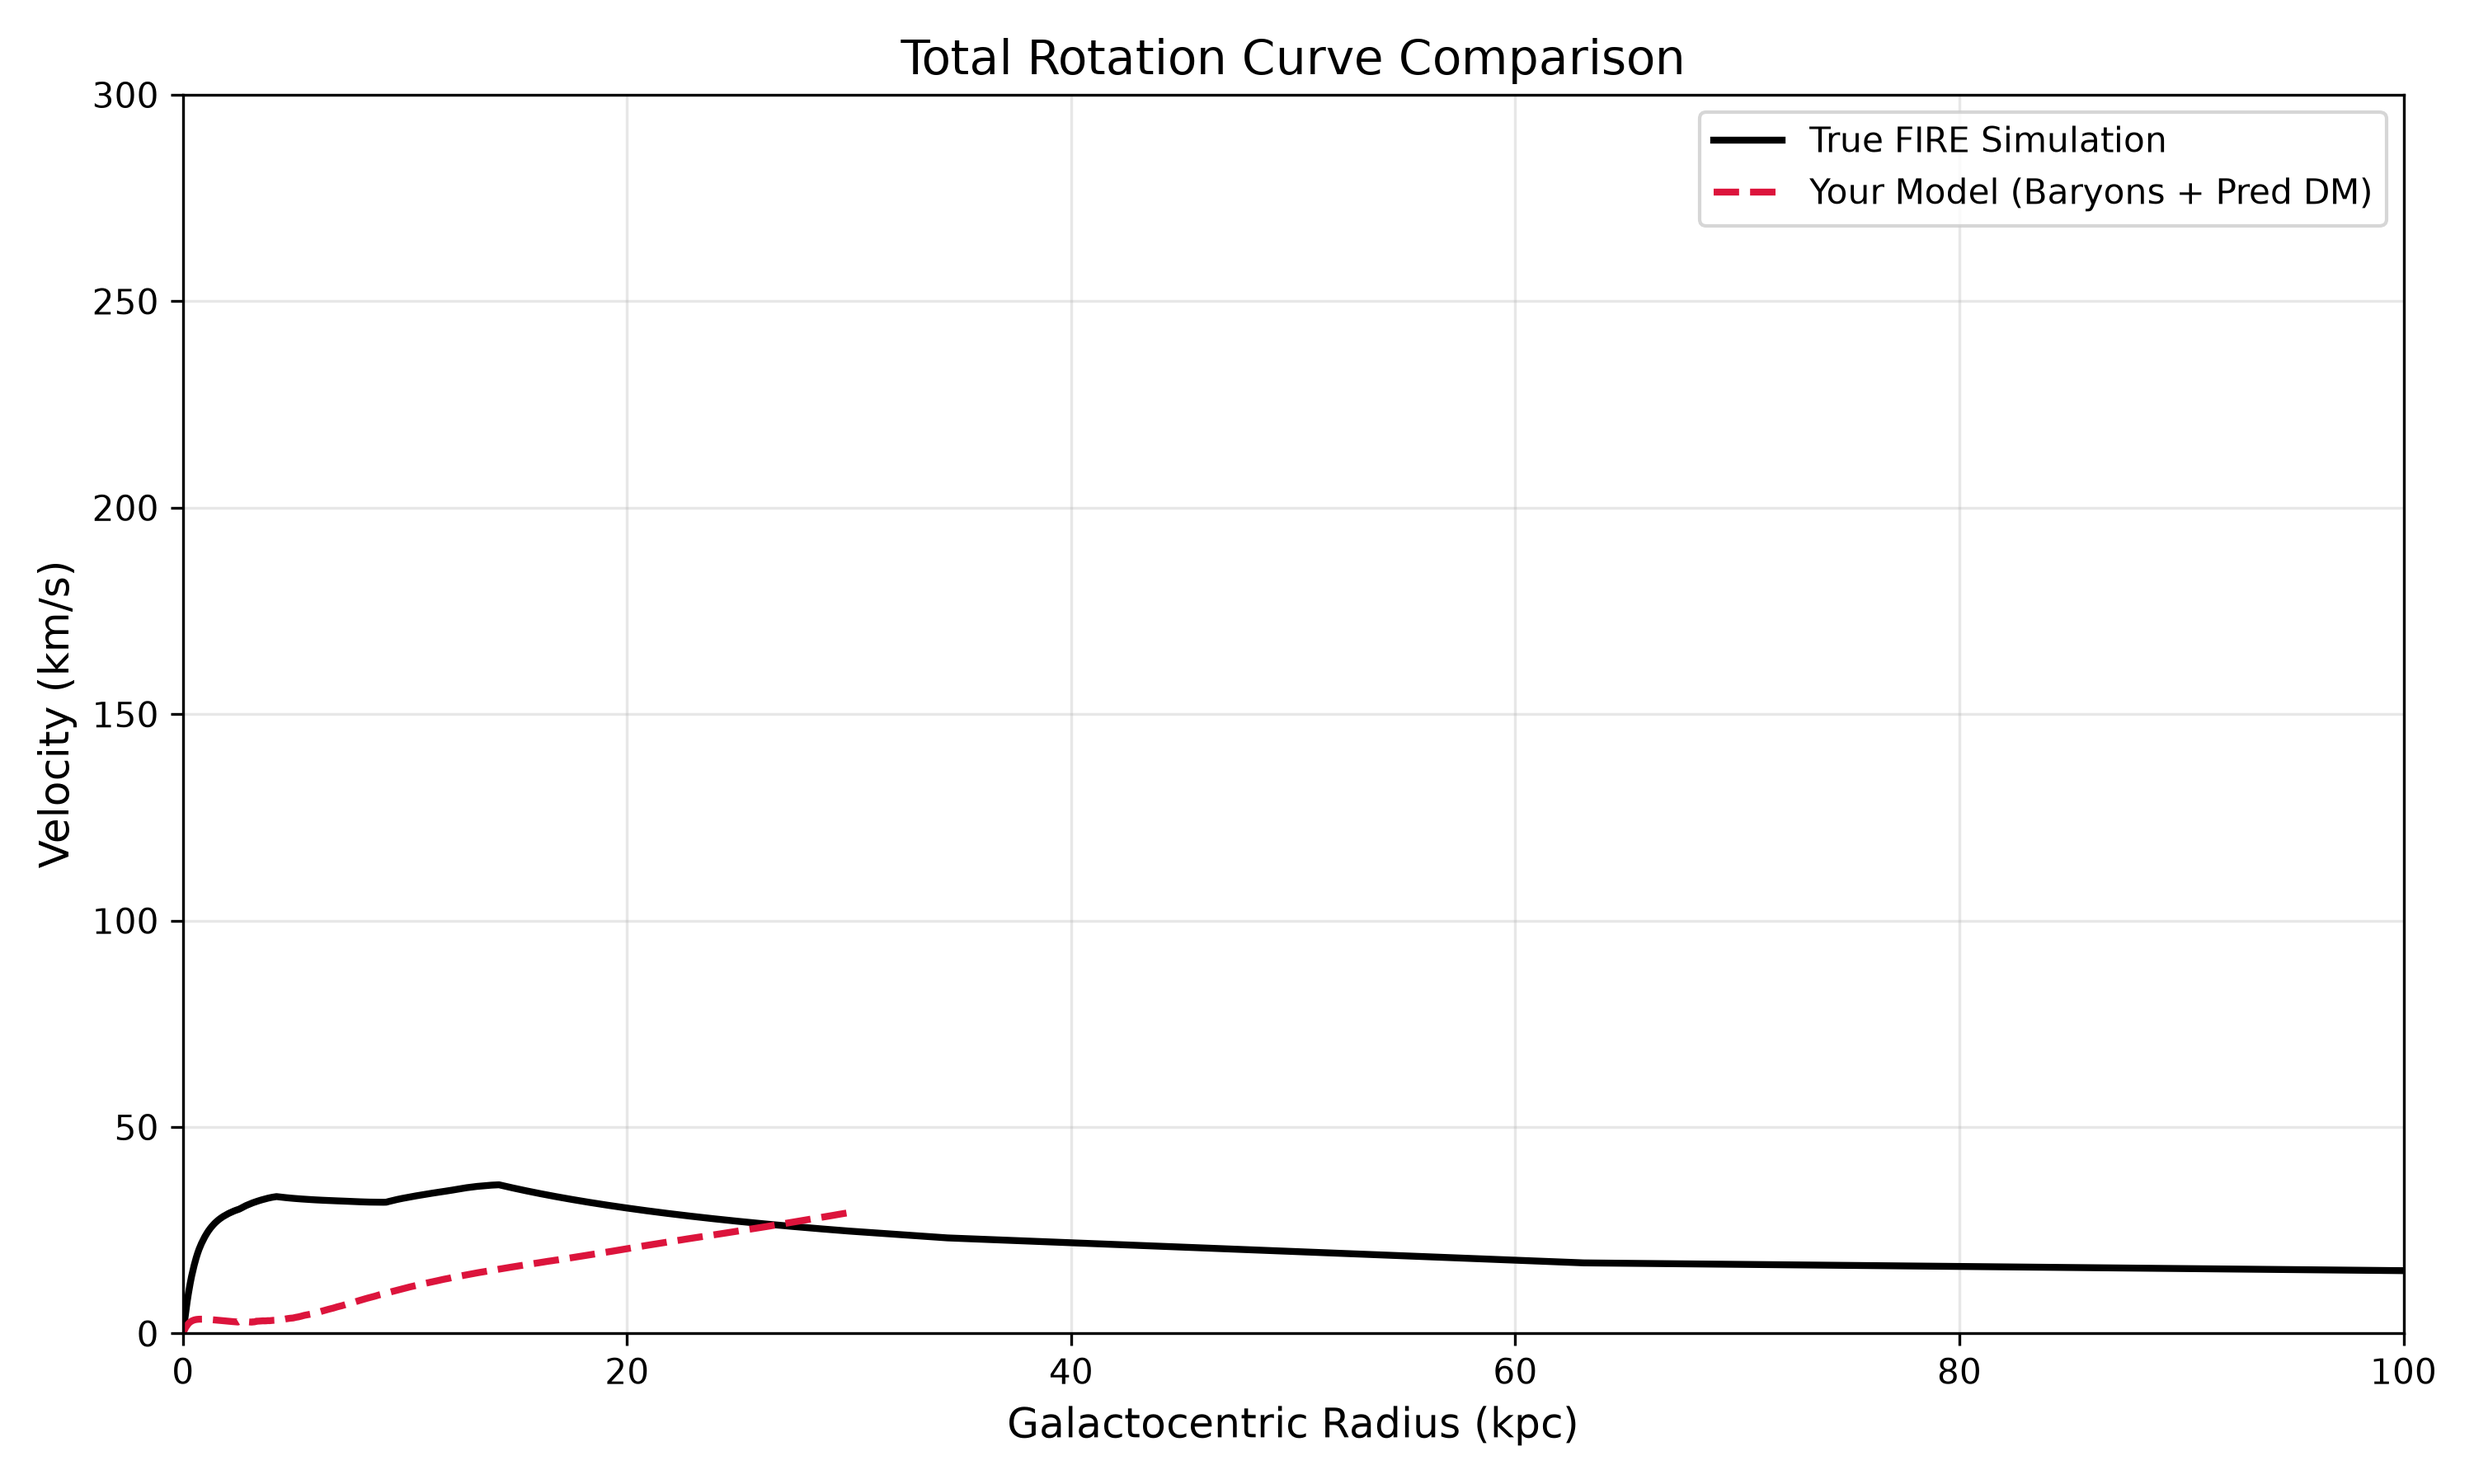
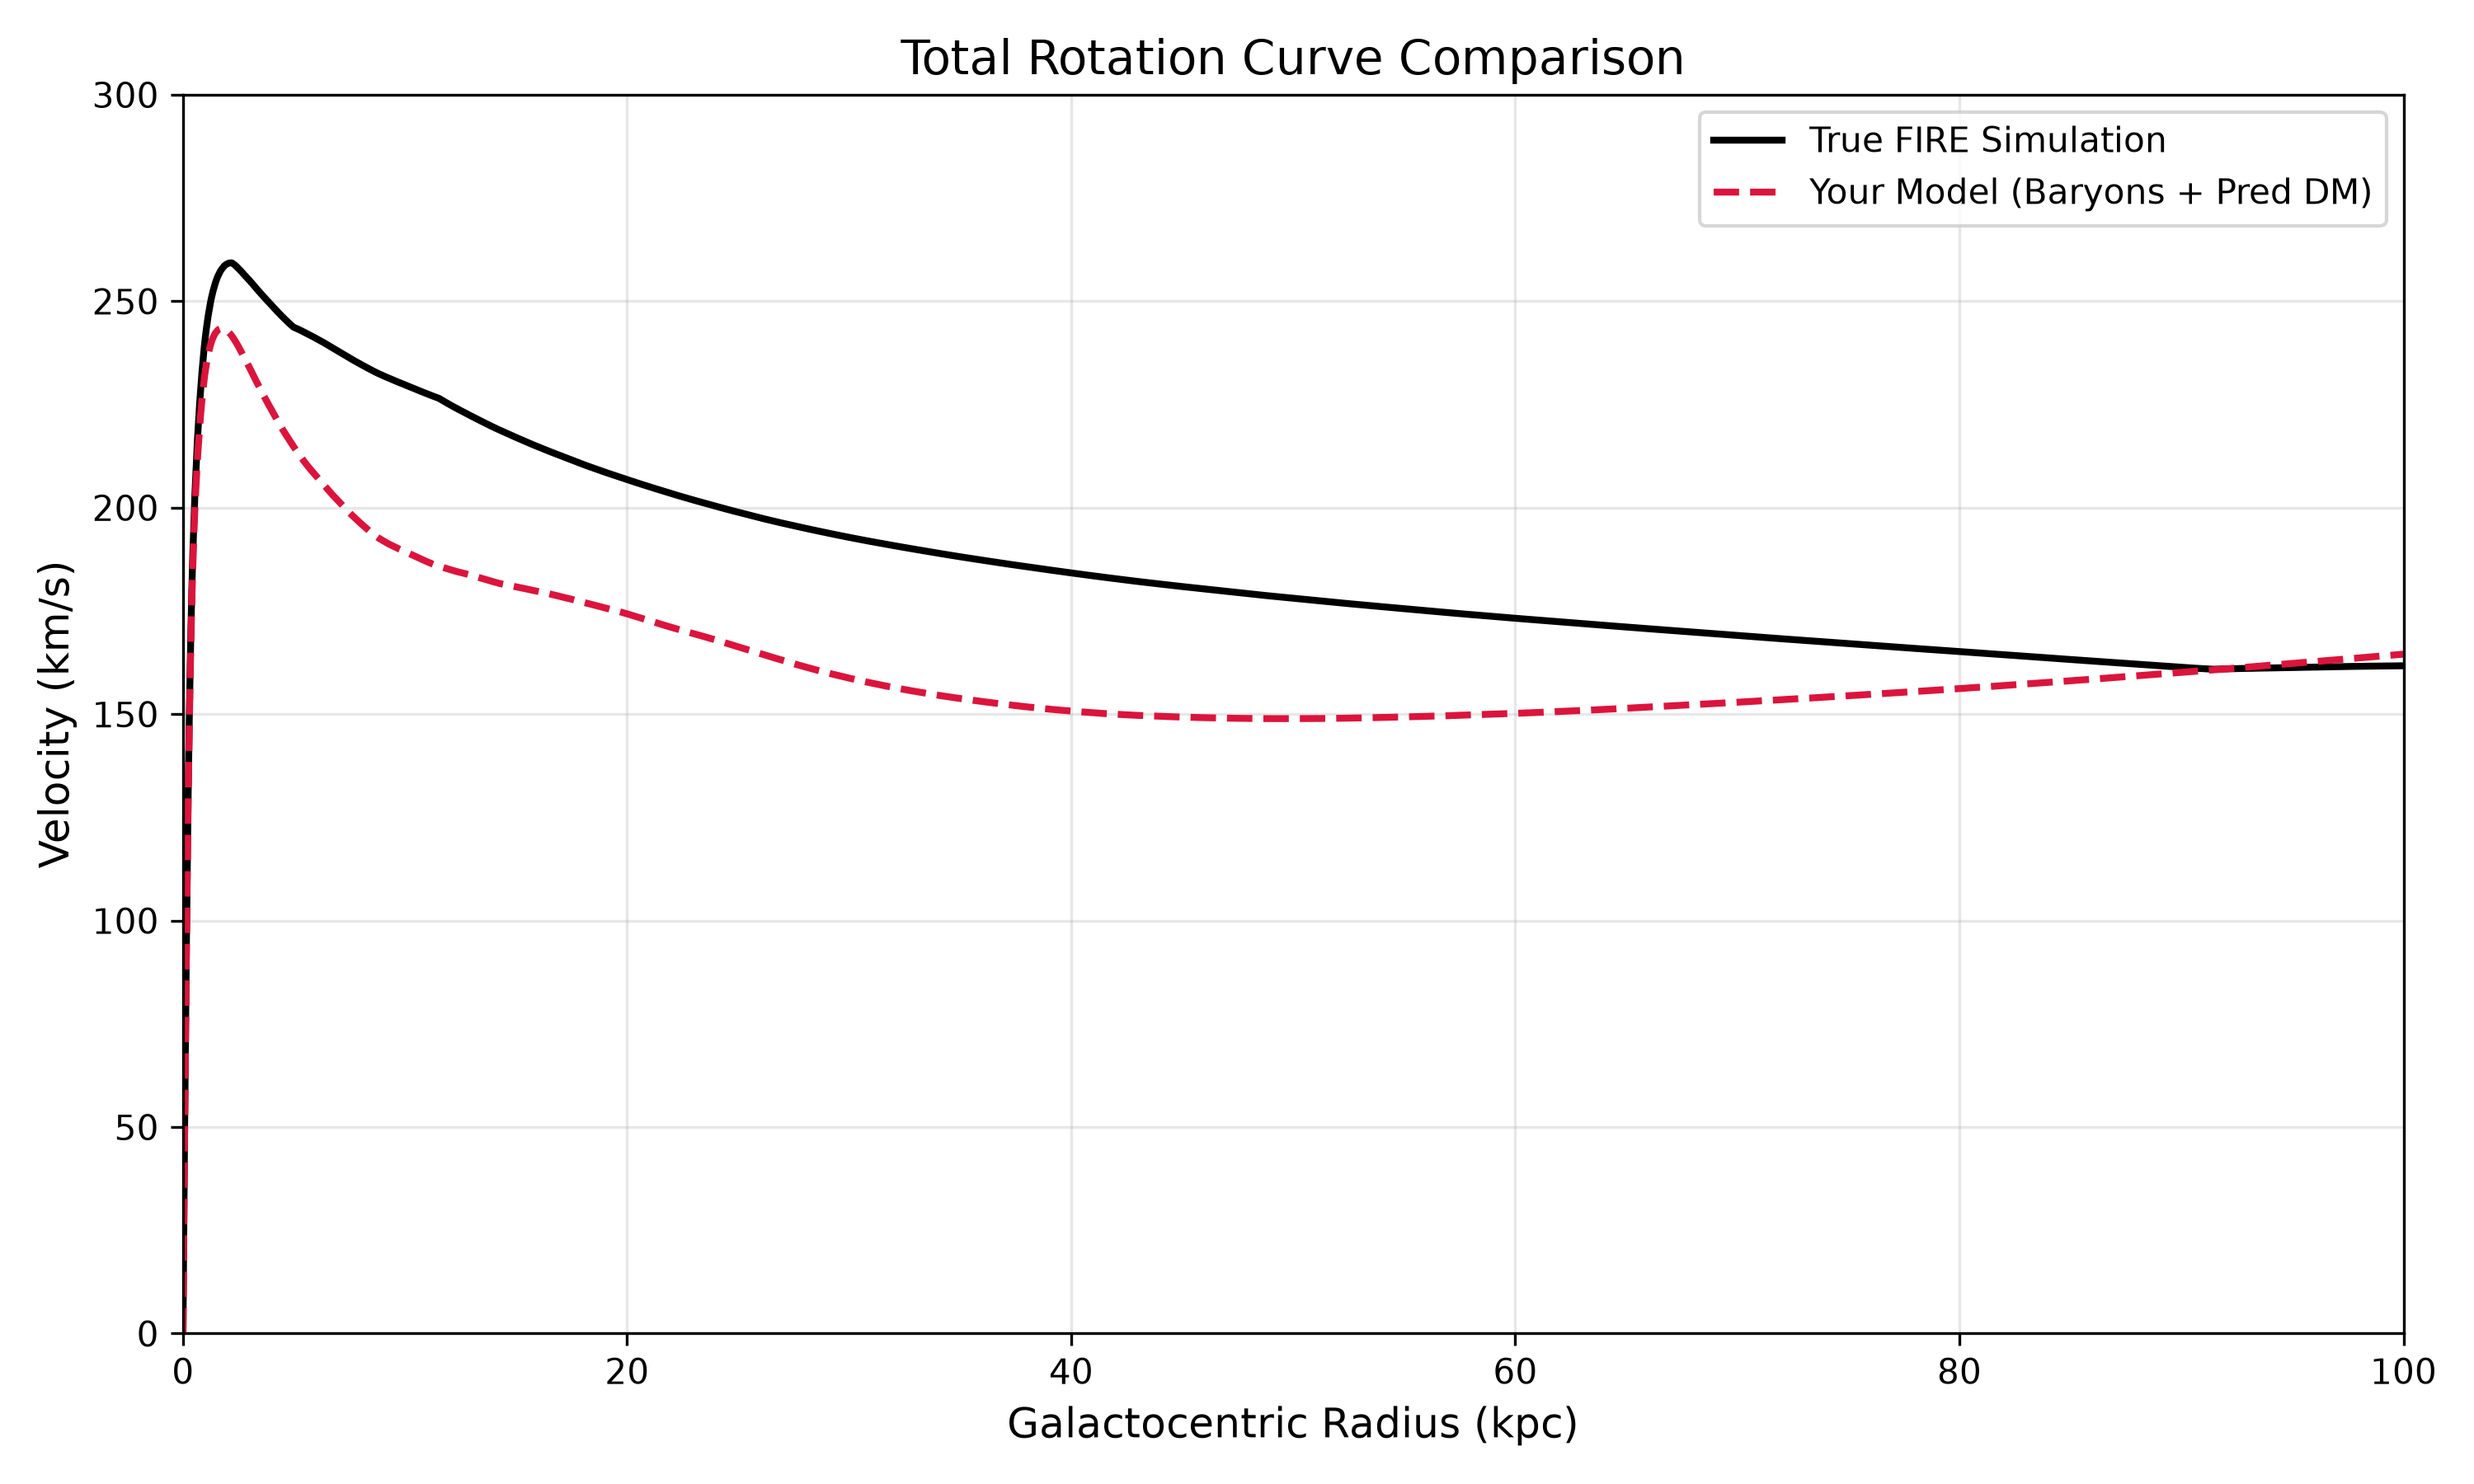
min density 5 per cm3, m12i

diff --git a/darkmatter.py b/darkmatter.py
@@ -15,8 +15,8 @@ import gizmo_analysis as gizmo
 # 1. CONFIGURATION & CONSTANTS
 # ==========================================
 SNAPSHOT_NUM = 600
-DENSITY_THRESHOLD = 0.0001  # cm^-3 (filtering for diffuse gas)
-DISTANCE_LIMIT = 30.0    # kpc
+DENSITY_THRESHOLD = 5.0001  # cm^-3 (filtering for diffuse gas)
+DISTANCE_LIMIT = 100.0    # kpc
 
 G = 4.3009e-6             # Gravitational constant: kpc * (km/s)^2 / M_sun
 c = 299792458.0           # Speed of light: m/s
@@ -43,7 +43,8 @@ part = gizmo.io.Read.read_snapshots(
     'index', 
     SNAPSHOT_NUM, 
     assign_hosts=True,
-    simulation_directory='./m10q_res30'
+    #simulation_directory='./m10q_res30'
+    simulation_directory='./m12i_res7100'
 )
 
 # Extract Radii
